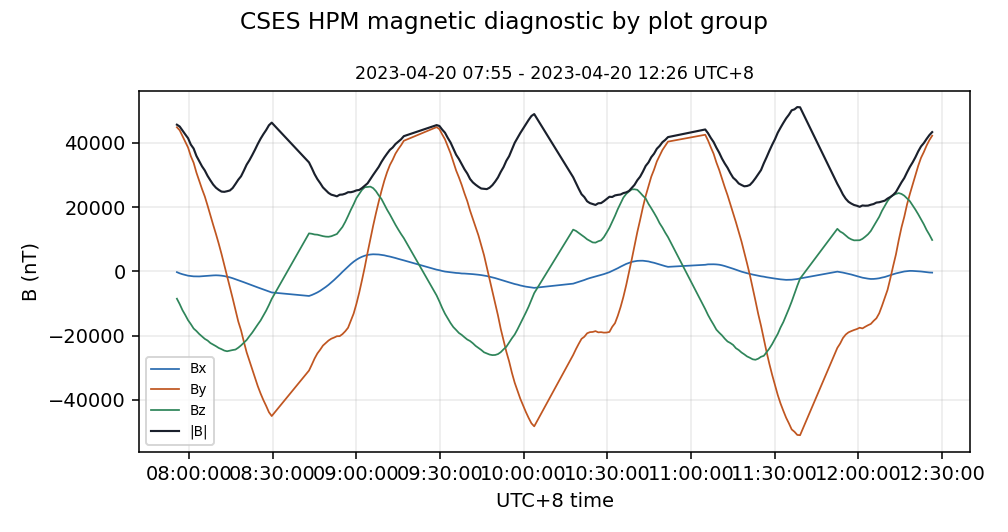
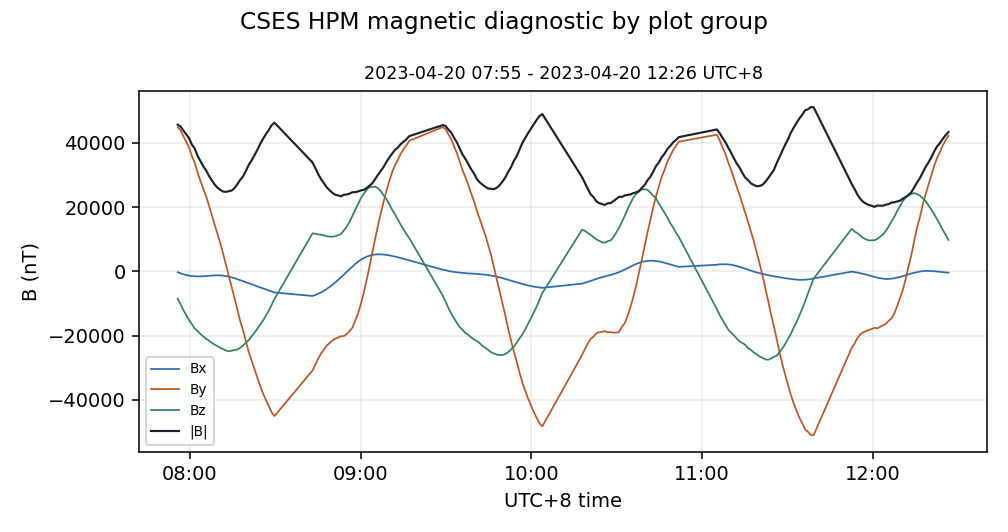
Disable static demo downloads and simplify magnetic ticks

diff --git a/frontend/src/styles.css b/frontend/src/styles.css
@@ -636,6 +636,19 @@ button:disabled {
   text-decoration: none;
 }
 
+.statistics-downloads .download-disabled {
+  display: inline-flex;
+  align-items: center;
+  min-height: 34px;
+  padding: 0 10px;
+  border: 2px solid #2a2923;
+  background: #efe5d1;
+  color: #8a5a45;
+  font-weight: 900;
+  cursor: not-allowed;
+  opacity: 0.76;
+}
+
 .bottom-row {
   display: grid;
   grid-template-columns: 1fr;

diff --git a/frontend/src/App.test.tsx b/frontend/src/App.test.tsx
@@ -339,6 +339,15 @@ describe("App static public demo workflow", () => {
     expect(screen.getByRole("img", { name: "demo magnetic" })).toHaveAttribute("src", expect.stringContaining("demo_data/magnetic_overview.png"));
     expect(screen.getByText("当前为 demo，不提供运行日志服务")).toBeInTheDocument();
     expect(screen.getByRole("button", { name: "频谱图" })).toHaveAttribute("title", "涉及其他数据，demo 版本不支持展示");
+    expect(document.querySelector(".crop-label-cell")).toHaveAttribute("title", "demo 版本不支持裁剪功能");
+    expect(document.querySelector(".crop-export-row")).toHaveAttribute("title", "sorry！下载达咩哦");
+    const staticExportButton = screen.getByRole("button", { name: "export" });
+    expect(staticExportButton).toBeDisabled();
+    expect(staticExportButton).toHaveAttribute("title", "sorry！下载达咩哦");
+    expect(screen.queryByRole("link", { name: "导出统计 JSON" })).not.toBeInTheDocument();
+    expect(screen.queryByRole("link", { name: "导出统计 CSV" })).not.toBeInTheDocument();
+    expect(screen.getByText("导出统计 JSON")).toHaveAttribute("title", "sorry！下载达咩哦");
+    expect(screen.getByText("导出统计 CSV")).toHaveAttribute("title", "sorry！下载达咩哦");
     expect(screen.queryByRole("link", { name: "导出当前图像" })).not.toBeInTheDocument();
     fireEvent.click(screen.getByRole("button", { name: "上传文件" }));
     expect(screen.getByRole("alert")).toHaveTextContent("当前为 demo，脱敏数据已准备，不支持上传");

diff --git a/backend/app/services/cses_hpm_uploads.py b/backend/app/services/cses_hpm_uploads.py
@@ -848,7 +848,7 @@ def optional_value(values: np.ndarray, index: int) -> float | None:
     return value if np.isfinite(value) else None
 
 
-def draw_magnetic_segments(path: Path, segments: list[dict[str, Any]], product: str) -> None:
+def draw_magnetic_segments(path: Path, segments: list[dict[str, Any]], product: str, *, integer_hour_ticks: bool = False) -> None:
     count = len(segments)
     cols = min(2, count)
     rows = int(math.ceil(count / cols))
@@ -875,7 +875,11 @@ def draw_magnetic_segments(path: Path, segments: list[dict[str, Any]], product: 
         ax.set_title(f"{title_start} - {title_end} UTC+8", fontsize=9)
         ax.grid(True, alpha=0.25)
         ax.legend(loc="best", fontsize=7)
-        ax.xaxis.set_major_formatter(mdates.DateFormatter("%H:%M:%S"))
+        if integer_hour_ticks:
+            ax.xaxis.set_major_locator(mdates.HourLocator())
+            ax.xaxis.set_major_formatter(mdates.DateFormatter("%H:%M"))
+        else:
+            ax.xaxis.set_major_formatter(mdates.DateFormatter("%H:%M:%S"))
         ax.set_xlabel("UTC+8 time")
     fig.suptitle("CSES HPM magnetic diagnostic by plot group")
     fig.tight_layout()

diff --git a/scripts/build_sanitized_static_demo.py b/scripts/build_sanitized_static_demo.py
@@ -122,7 +122,7 @@ def main() -> int:
 
     write_json(outdir / "magnetic_sanitized_downsampled.json", build_magnetic_payload(magnetic_points, segments, args.magnetic_downsample_sec))
     write_json(outdir / "orbit_points_sanitized.json", build_orbit_payload(orbit_points, segments, args.orbit_downsample_sec))
-    draw_magnetic_segments(outdir / "magnetic_overview.png", magnetic_plot_groups_from_sanitized(magnetic_points, segments, plot_groups), "HPM_5")
+    draw_magnetic_segments(outdir / "magnetic_overview.png", magnetic_plot_groups_from_sanitized(magnetic_points, segments, plot_groups), "HPM_5", integer_hour_ticks=True)
     write_interactive_orbit_html(outdir / "orbit_demo.html", orbit_segments_from_sanitized(orbit_points, segments), segments, plot_groups)
 
     session = build_static_session(source_records, deduped_rows, segments, plot_groups, duplicate_time_removed_count, statistics)